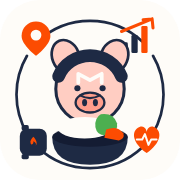
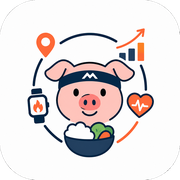
Use the real mascot artwork instead of the hand-drawn approximation
The user pushed the actual mascot PNGs into the repo (mascot-1/2/3.png,
Mascot Minimal1.png) via GitHub's web upload, so those replace the
hand-drawn SVG mascot from the previous two commits:

- App icons (32/180/192/512) are now rendered from mascot-1.png (the exact
  composition the user pointed at as the reference), with its baked-in
  black corner background flood-filled to transparent so it composites
  cleanly regardless of platform icon masking
- The landing page hero now uses mascot-3.png (the full illustrated
  "thumbs up with a bowl" pose) at public/mascot-hero.png
- A tight crop of the face+bowl (public/mascot-face.png) replaces the
  hand-drawn face in the dashboard's and nutrition page's empty states
- Delete src/components/pig-mascot.tsx (no longer used anywhere)
- Move the four originals into design/ as reference source files, out of
  the repo root

Claude-Session: https://claude.ai/code/session_018kpS9PThZioPZoksP4Ex2w

diff --git a/src/app/dashboard/nutrition/page.tsx b/src/app/dashboard/nutrition/page.tsx
@@ -16,7 +16,6 @@ import {
   BMI_CATEGORY_GUIDANCE,
   type BmiCategory,
 } from "@/lib/nutrition";
-import { PigMascotFace } from "@/components/pig-mascot";
 import { WeightLogCard, type WeightLogEntry } from "./weight-log-card";
 import { CalorieTrendChart, type CalorieDayBucket } from "./calorie-trend-chart";
 import { CalorieRing } from "./calorie-ring";
@@ -137,7 +136,8 @@ export default async function NutritionPage() {
         {backLink}
         <h1 className="mb-8 text-xl font-bold">โภชนาการ</h1>
         <div className="flex flex-col items-center gap-3 rounded-2xl border border-dashed border-neutral-800 py-16 text-center">
-          <PigMascotFace className="h-16 w-16" />
+          {/* eslint-disable-next-line @next/next/no-img-element */}
+          <img src="/mascot-face.png" alt="" className="h-16 w-16 object-contain" />
           <p className="max-w-xs text-neutral-500">
             กรอกน้ำหนัก ส่วนสูง อายุ และระดับกิจกรรม ในหน้าตั้งค่าก่อน เพื่อคำนวณเป้าหมายแคลอรี่/แมโคร/น้ำให้อัตโนมัติ
           </p>

diff --git a/src/app/dashboard/page.tsx b/src/app/dashboard/page.tsx
@@ -5,7 +5,6 @@ import { getSessionUserId } from "@/lib/session";
 import { formatDistanceKm, formatDuration } from "@/lib/format";
 import { macrosForGrams } from "@/lib/food";
 import { applyActivityBonus, computeTargets, isProfileComplete } from "@/lib/nutrition";
-import { PigMascotFace } from "@/components/pig-mascot";
 import { ActivityFilters } from "./activity-filters";
 import { ActivityHeatmap, buildHeatmapDays, computeStreaks } from "./activity-heatmap";
 import { ActivityListView, type ActivityRow } from "./activity-list-view";
@@ -422,7 +421,8 @@ export default async function DashboardPage({
 
       {activities.length === 0 ? (
         <div className="flex flex-col items-center gap-3 rounded-2xl border border-dashed border-neutral-800 py-16 text-center">
-          <PigMascotFace className="h-16 w-16" />
+          {/* eslint-disable-next-line @next/next/no-img-element */}
+          <img src="/mascot-face.png" alt="" className="h-16 w-16 object-contain" />
           <p className="text-neutral-500">
             {stats._count._all === 0
               ? 'ยังไม่มีข้อมูลกิจกรรม ลองกด "ซิงค์ข้อมูลจาก Strava" ด้านบน'

diff --git a/src/app/page.tsx b/src/app/page.tsx
@@ -1,7 +1,6 @@
 import Link from "next/link";
 import { redirect } from "next/navigation";
 import { getSessionUserId } from "@/lib/session";
-import { PigMascotIcon } from "@/components/pig-mascot";
 
 export default async function HomePage({
   searchParams,
@@ -46,7 +45,8 @@ export default async function HomePage({
       <div className="pointer-events-none absolute inset-x-0 top-[-10%] h-[500px] bg-glow-orange" />
 
       <div className="relative z-10 flex w-full max-w-md flex-1 flex-col items-center justify-center gap-8 py-20 text-center">
-        <PigMascotIcon className="h-20 w-20 rounded-2xl shadow-lg shadow-orange-950/30" />
+        {/* eslint-disable-next-line @next/next/no-img-element */}
+        <img src="/mascot-hero.png" alt="MooPaTa" className="h-32 w-32 drop-shadow-xl" />
 
         <div className="space-y-3">
           <h1 className="text-4xl font-extrabold tracking-tight">MooPaTa</h1>
